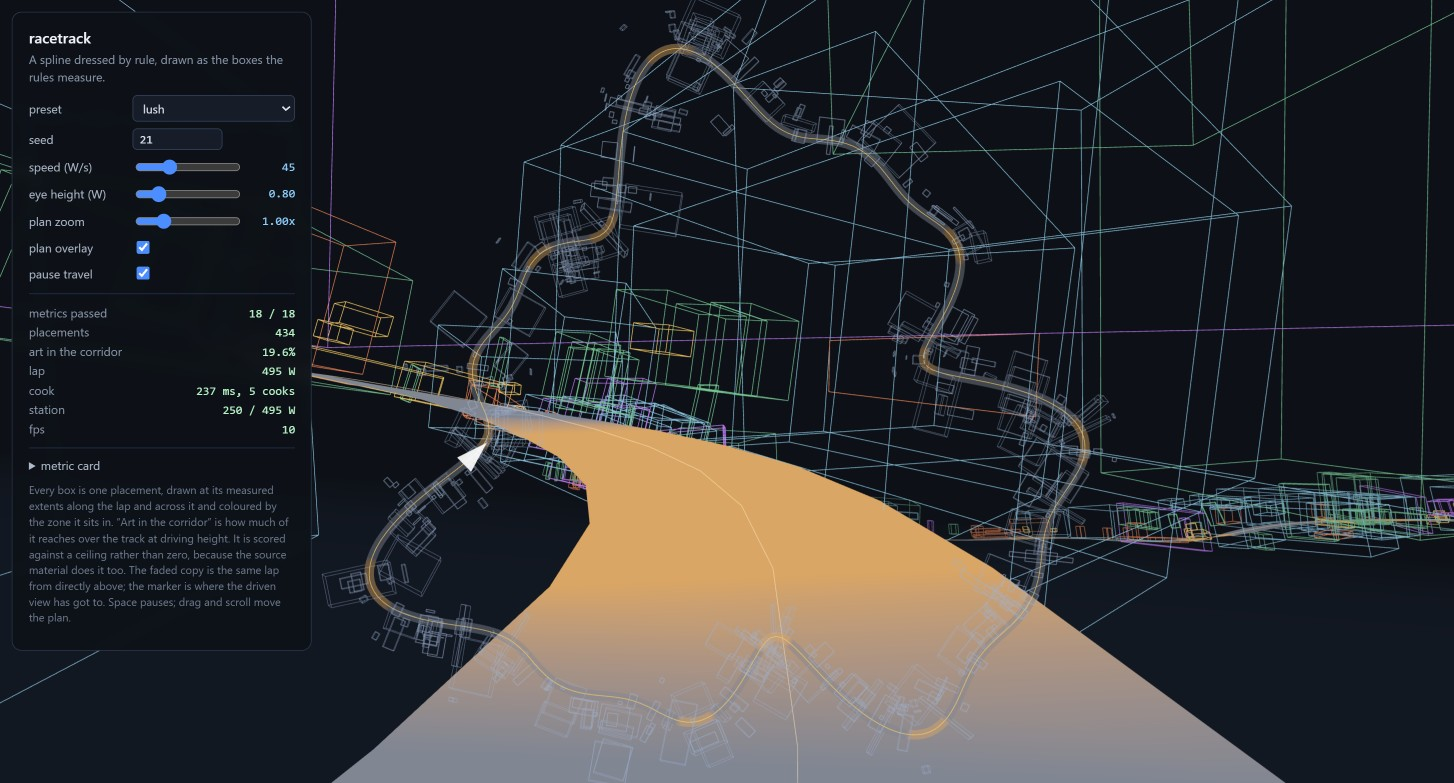
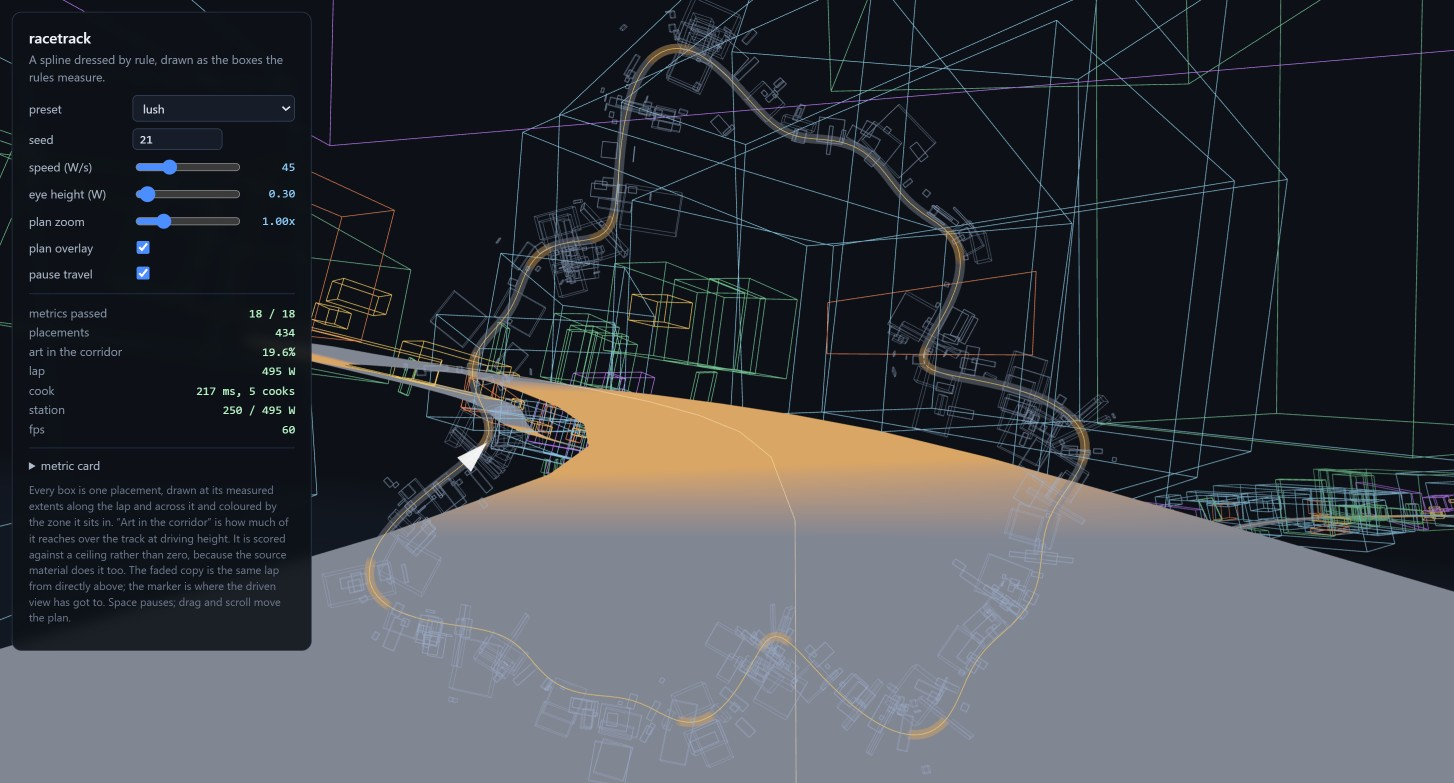
demos: the camera rides where the rules say the driver's eye is
Asked why art still crosses the path, and the answer turned out to be two
answers.

MOSTLY IT IS BY DESIGN, and the numbers say so. On the shipped lap, 94 of
429 boxes have geometry crossing into the corridor at driving height and
60 cross the centreline itself. That is what metric 18 scores, against a
CEILING measured from the source rather than against zero, because the
source puts art over the track too — 15.5% of side-anchored placements
for this era. What is guaranteed is the anchor rule, and it holds: zero
placements are anchored inside the corridor at driving height.

BUT THE CAMERA WAS WRONG, and it is the failure this project keeps
finding. The cockpit eye height had three spellings: `SIGHTLINE.eyeHeightW`
at 0.3 in the kit, read by the score; a private `EYE_H_W` at 0.3 in the
graph, read by the sightline cull; and a literal 0.8 in the page, read by
the camera. The comment above `SIGHTLINE` warns about exactly this — "it
now has two readers, the score and the demo that draws the result, and
two typings of the same number is how a picture starts disagreeing with
the card beside it" — and the picture was the reader that never took the
constant.

It rode 2.7 times higher than the eye the sightline cull protects, which
is not a cosmetic difference for this demo. L-1 guarantees a clear view
of the centreline twelve half-widths ahead FROM THAT HEIGHT; showing the
lap from nearly three times up is showing a guarantee nobody made, and it
[…]

diff --git a/demos/racetrack/main.ts b/demos/racetrack/main.ts
@@ -61,7 +61,7 @@ import {
   noCorrections,
 } from "./calibrate.js";
 import { buildTrackDressingGraph } from "./dressing.js";
-import { PRESETS, REFINE_PASSES, type Preset } from "./kit.js";
+import { PRESETS, REFINE_PASSES, SIGHTLINE, type Preset } from "./kit.js";
 import { TRACK, col, refine, scoreCook } from "./read.js";
 
 // ------------------------------------------------------------------ //
@@ -533,7 +533,19 @@ const overlay = createOverlay({
 let presetName = "lush";
 let seed = 21;
 let speedW = 45;
-let eyeW = 0.8;
+// THE CAMERA RIDES WHERE THE RULES SAY THE DRIVER'S EYE IS, and it did
+// not before: this was a literal 0.8 while the sightline cull, the score
+// and the kit all worked from 0.3. The comment on `SIGHTLINE` warns about
+// exactly that — the same number typed twice is how a picture starts
+// disagreeing with the card beside it — and the picture was the reader
+// that never took the constant.
+//
+// It matters for what this demo is FOR. The sightline rule guarantees a
+// clear view of the centreline twelve half-widths ahead FROM THIS
+// HEIGHT; showing the lap from nearly three times up is showing a
+// guarantee nobody made. The slider still raises it, which is the right
+// place for a taste knob to live.
+let eyeW: number = SIGHTLINE.eyeHeightW;
 let planOn = true;
 let paused = false;
 

diff --git a/demos/racetrack/dressing.ts b/demos/racetrack/dressing.ts
@@ -142,9 +142,6 @@ const BRAKE_RADIUS_W = 8;
  */
 const SEVERITY_PROBE_W = 2;
 
-/** The cockpit eye height the sightline is tested from, in W. */
-const EYE_H_W = 0.3;
-
 /** How far ahead the centreline must stay visible, in W. */
 const LOOK_AHEAD_W = 12;
 
@@ -2052,7 +2049,7 @@ function cullSightline(
       // separately as metric 14.
       mul(lt(attribute("zone"), 6), gt(attribute("zone"), 2)),
       mul(
-        gt(add(attribute("heightW"), attribute("tallnessW")), EYE_H_W),
+        gt(add(attribute("heightW"), attribute("tallnessW")), SIGHTLINE.eyeHeightW),
         lt(attribute("heightW"), 3),
       ),
     ),
